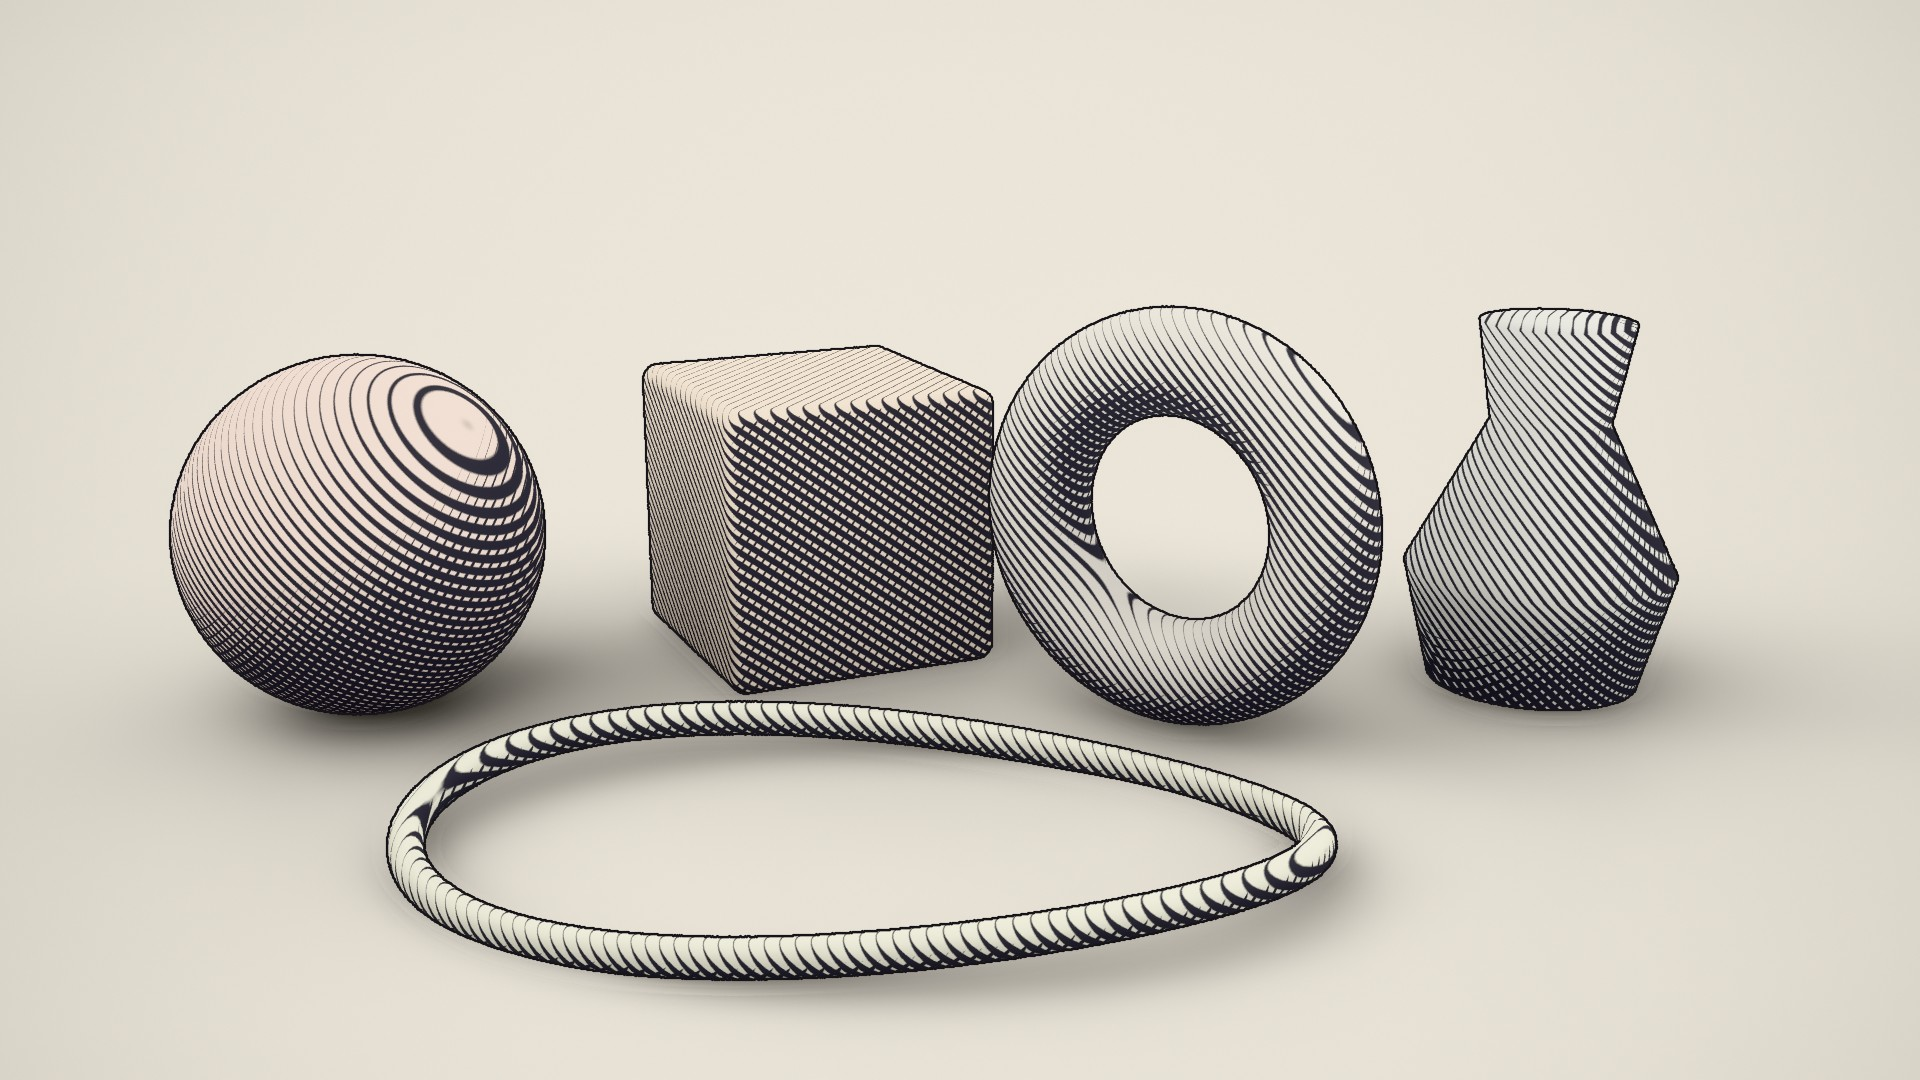
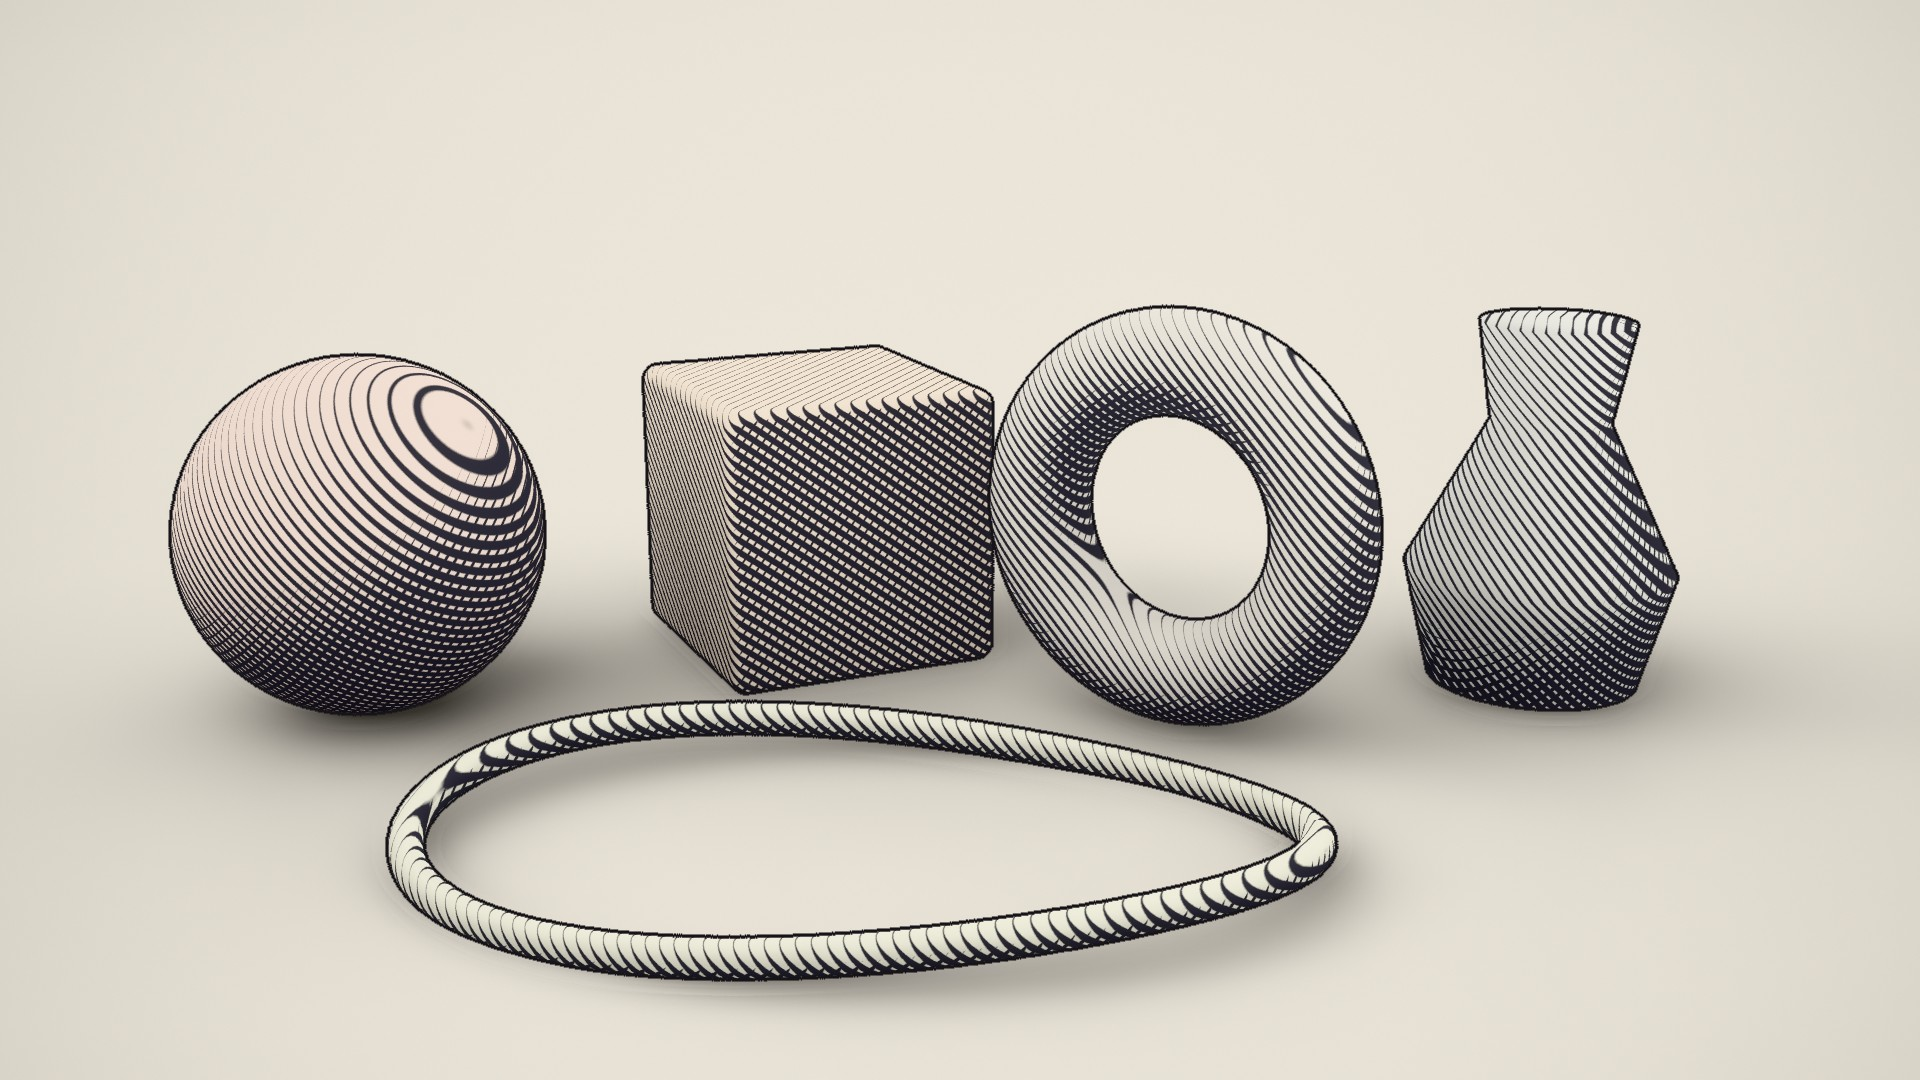
scene3d: outlines from an edge mask plus dilation (about 110 -> 30 ms per 1080p frame); refreshed outlined stills
Claude-Session: https://claude.ai/code/session_01YBqaydDMTECMyYJKyJDHyy

diff --git a/crates/anikit-video/src/scene3d/mod.rs b/crates/anikit-video/src/scene3d/mod.rs
@@ -660,31 +660,45 @@ fn outlines(out: &mut [u8], px: &post::Planes, w: usize, h: usize, width: f32, i
         }
         dot(n_at(i), n_at(j)) < 0.6
     };
-    let mut cov = vec![0f32; w * h];
     use rayon::prelude::*;
+    // Edge pixels first (each pixel tests its right and lower neighbour), then
+    // a distance-limited dilation over that mask.
+    let mut mask = vec![0u8; w * h];
+    mask.par_chunks_mut(w).enumerate().for_each(|(y, row)| {
+        for x in 0..w {
+            let i = y * w + x;
+            let mut e = (x + 1 < w && edge(i, i + 1)) || (y + 1 < h && edge(i, i + w));
+            e |= (x > 0 && edge(i, i - 1)) || (y > 0 && edge(i, i - w));
+            // Keep the line on the nearer side of a depth step.
+            if e && !bg(px.id[i]) {
+                row[x] = 1;
+            } else if e {
+                row[x] = 2;
+            }
+        }
+    });
+    let mut cov = vec![0f32; w * h];
     cov.par_chunks_mut(w).enumerate().for_each(|(y, row)| {
         for x in 0..w {
             let i = y * w + x;
             let d = if bg(px.id[i]) { dmed } else { px.depth[i] };
-            let r = (width * scale_px * (dmed / d.max(0.05)).sqrt().clamp(0.6, 1.8)).max(0.6);
+            let r = (width * scale_px * (dmed / d.max(0.05)).sqrt().clamp(0.6, 1.8)).max(0.6) * 0.65;
             let ri = r.ceil() as i32;
             let mut best = f32::MAX;
             for dy in -ri..=ri {
+                let yy = y as i32 + dy;
+                if yy < 0 || yy >= h as i32 {
+                    continue;
+                }
                 for dx in -ri..=ri {
-                    if dx == 0 && dy == 0 {
-                        continue;
-                    }
-                    let (xx, yy) = (x as i32 + dx, y as i32 + dy);
-                    if xx < 0 || yy < 0 || xx >= w as i32 || yy >= h as i32 {
+                    let xx = x as i32 + dx;
+                    if xx < 0 || xx >= w as i32 || mask[yy as usize * w + xx as usize] == 0 {
                         continue;
                     }
                     let dist = ((dx * dx + dy * dy) as f32).sqrt();
-                    if dist < best && dist <= r + 0.5 && edge(i, yy as usize * w + xx as usize) {
-                        best = dist;
-                    }
+                    best = best.min(dist);
                 }
             }
-            // Lines sit on the nearer side of a depth step only.
             row[x] = if best == f32::MAX { 0.0 } else { (r + 0.5 - best).clamp(0.0, 1.0) };
         }
     });

diff --git a/docs/video/scene3d.md b/docs/video/scene3d.md
@@ -118,7 +118,7 @@ Not every shot should be a chrome product on a white cyc. One word changes the w
   - `city`: night city. Deep blue ambient, a sodium key, neon signage strips and four coloured practicals around the subject (unless you give `lights`), on a wet reflective floor.
   - `underwater`: teal water, light from the surface, moving caustics on the sand and objects, depth haze.
 
-Cost: the styles shade in the same pass as PBR, so they cost the same or less. Outlines add about 110 ms per 1080p frame (measured: toon 1.19 s with outlines, 1.07 s without). Example 1080p traces on 4 cores: toon 0.70 s, ink 0.97 s, clay/paper/gouache about 0.66 s, city 1.44 s (four shadowed lights).
+Cost: the styles shade in the same pass as PBR, so they cost the same or less. Outlines add about 30 ms per 1080p frame (measured: toon 1.03–1.07 s with outlines, 1.00 s without). Example 1080p traces on 4 cores: toon 0.70 s, ink 0.97 s, clay/paper/gouache about 0.66 s, city 1.44 s (four shadowed lights).
 
 ## Rules that keep it looking expensive
 
